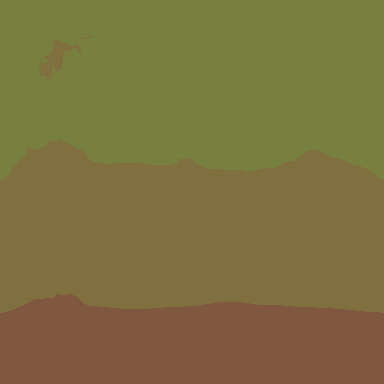
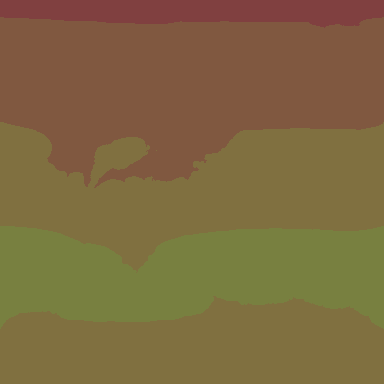
Mobile Units

diff --git a/Assets/Scripts/Map/Map.cs b/Assets/Scripts/Map/Map.cs
@@ -35,7 +35,8 @@ public class Map : IDisposable
 	public Chunk[] Chunks { get; }
 
 	public HQTile HQ;
-	private List<BuildingTile> _powerTransferTiles;
+	public Dictionary<int, MobileUnit> units;
+	private int _nextId = 0;
 
 	public Map(int height, int width, int seed, float edgeLength = 1)
 	{
@@ -51,7 +52,7 @@ public class Map : IDisposable
 		innerRadius = Mathf.Sqrt(3f) / 2f * tileEdgeLength;
 		shortDiagonal = Mathf.Sqrt(3f) * tileEdgeLength;
 		tongDiagonal = 2 * tileEdgeLength;
-		_powerTransferTiles = new List<BuildingTile>();
+		units = new Dictionary<int, MobileUnit>(500);
 		ActiveMap = this;
 	}
 
@@ -215,6 +216,16 @@ public class Map : IDisposable
 
 	}
 
+	public MobileUnit AddUnit(MobileUnitInfo unitInfo, Tile tile)
+	{
+		var id = _nextId++;
+		var unit = new MobileUnit(id, unitInfo, tile);
+		units.Add(id, unit);
+		if (IsRendered)
+			unit.Render();
+		return unit;
+	}
+
 	public TileInfo[] GetTileTyes()
 	{
 		return Chunks.SelectMany(c => c.Tiles.Select(t => t.info)).Distinct().ToArray();
@@ -238,6 +249,11 @@ public class Map : IDisposable
 		IsRendered = true;
 		if (EM == null)
 			EM = entityManager;
+		foreach (var unit in units)
+		{
+			if (!unit.Value.IsRendered)
+				unit.Value.Render();
+		}
 		var start = DateTime.Now;
 		for (int i = 0; i < Chunks.Length; i++)
 			Chunks[i].Render();
@@ -406,11 +422,6 @@ public class Map : IDisposable
 		}
 	}
 
-	public List<Tile> GetPoweredTiles()
-	{
-		return _powerTransferTiles.SelectMany(t => HexSelect(t.Coords, t.buildingInfo.powerTransferRadius)).Distinct().ToList();
-	}
-
 	public Tile ReplaceTile(Tile tile, TileInfo newTile)
 	{
 		if (!IsRendered)
@@ -420,24 +431,9 @@ public class Map : IDisposable
 		var index = chunkX + chunkZ * width;
 		var localCoord = coord.ToChunkLocalCoord(chunkX, chunkZ);
 		var nT = Chunks[index].ReplaceTile(localCoord, newTile);
-		switch (nT)
-		{
-			case HQTile t:
-				_powerTransferTiles.Add(HQ = t);
-				break;
-			case PoweredBuildingTile t:
-				_powerTransferTiles.Add(t);
-				break;
-		}
-		switch (tile)
-		{
-			case HQTile t:
-				_powerTransferTiles.Remove(t);
-				break;
-			case PoweredBuildingTile t:
-				_powerTransferTiles.Remove(t);
-				break;
-		}
+		if (nT is HQTile t)
+			HQ = t;
+	
 		tile.OnRemoved();
 		tile.Destroy();
 		nT.OnPlaced();

diff --git a/Assets/Scripts/Map/Generators/BiomePainter.cs b/Assets/Scripts/Map/Generators/BiomePainter.cs
@@ -15,16 +15,30 @@ public class BiomePainter : ScriptableObject
 		return null;
 	}
 
-	public float[] GetMoistureMap(int width, int height, float[] heightMap, float min, float max, float seaLevel)
+	public float[] GetMoistureMap(int width, int height, INoiseFilter filter, float scale)
 	{
+		var noiseMap = new float[width * height];
+		float min = float.MaxValue, max = float.MinValue;
+		//scale /= 2;
+		for (int z = 0; z < height; z++)
+		{
+			for (int x = 0; x < width; x++)
+			{
+				var sample = filter.Evaluate(new Vector3(x/scale, z/scale, 100));
+				if (sample > max)
+					max = sample;
+				if (sample < min)
+					min = sample;
+				noiseMap[x + z * width] = sample;
+			}
+		}
+
+
 		var moistureMap = new float[width * height];
 		for (int i = 0; i < moistureMap.Length; i++)
 		{
-			var h = heightMap[i];
-			var m = h <= seaLevel ? MathUtils.Map(seaLevel - h, min, seaLevel, 2, 3) : (Mathf.Pow(MathUtils.Map(h - seaLevel, 0, max, 0, 1), 2) * 3);
-			moistureMap[i] = Mathf.Clamp(m, 0, 3);
+			moistureMap[i] = (1-Mathf.Pow(MathUtils.Map(noiseMap[i], min, max, 0, 1), 2))* 3;
 		}
-
 		return moistureMap;
 	}
 
@@ -38,11 +52,11 @@ public class BiomePainter : ScriptableObject
 			for (int x = 0; x < width; x++)
 			{
 				var d = Mathf.Abs(z - equator);
-				var tE = 3-(Mathf.Pow(MathUtils.Map(d, 0, maxD, 0, 1), 2) * 3);
+				var tE = 3-MathUtils.Map(d, 0, maxD, 0, 4);
 				var h = heightMap[x + z * width];
 				var tH = Mathf.Clamp(MathUtils.Map(h, 0, max, 0, 3), 0, 3);
 				tH = 3 - tH;
-				var t = Mathf.Clamp(value: (tH + (tE* 3)) / 4f, min: 0, max: 3);
+				var t = Mathf.Clamp(value: (tH + tE + tE) / 3f, min: 0, max: 3);
 				tempMap[x + z * width] = t;
 			}
 		}

diff --git a/Assets/Scripts/Map/Units/MobileUnit.cs b/Assets/Scripts/Map/Units/MobileUnit.cs
@@ -1,0 +1,73 @@
+using System.Collections;
+using System.Collections.Generic;
+using Unity.Entities;
+using Unity.Transforms;
+using UnityEngine;
+
+public class MobileUnit
+{
+	public int id;
+	private HexCoords _occupiedTile;
+	public MobileUnitInfo info;
+	public bool IsRendered { get; private set; }
+
+	private Entity _unitEntity;
+	private bool _isShown;
+
+
+	public MobileUnit(int id, MobileUnitInfo info, Tile t)
+	{
+		this.id = id;
+		this.info = info;
+		OccupyTile(t);
+	}
+
+	public Entity Render()
+	{
+		if (IsRendered)
+			return _unitEntity;
+		IsRendered = true;
+		return _unitEntity =  info.Instantiate(_occupiedTile.worldXZ, Quaternion.identity);
+	}
+
+	public void Shown(bool isShown)
+	{
+		if (isShown == _isShown)
+			return;
+		if(_isShown = isShown)
+			Map.EM.RemoveComponent(_unitEntity, typeof(Frozen));
+		else
+			Map.EM.AddComponent(_unitEntity, typeof(Frozen));
+	}
+
+	public void MoveTo(Vector3 pos)
+	{
+		if(!Map.EM.HasComponent<Destination>(_unitEntity))
+			Map.EM.AddComponent(_unitEntity, typeof(Destination));
+		Map.EM.SetComponentData(_unitEntity, new Destination { Value = pos });
+	}
+
+	public virtual void Die()
+	{
+		//TODO: Death Effect
+		Destroy();
+	}
+
+	public void Destroy()
+	{
+		Map.EM.DestroyEntity(_unitEntity);
+	}
+
+	public void OccupyTile(Tile tile)
+	{
+		if (_occupiedTile.isCreated)
+			Map.ActiveMap[_occupiedTile].DeOccupyTile();
+		if (tile.OccupyTile(this))
+			_occupiedTile = tile.Coords;
+	}
+
+	public override int GetHashCode()
+	{
+		return id;
+	}
+}

diff --git a/Assets/Scripts/Map/Tiles/MappedTiles/Tile.cs b/Assets/Scripts/Map/Tiles/MappedTiles/Tile.cs
@@ -13,6 +13,7 @@ public class Tile
 	public HexCoords Coords { get; protected set; }
 	public Vector3 SurfacePoint { get; protected set; }
 	public float Height { get; protected set; }
+	public bool IsOccupied { get => _occupyingUnit != -1; }
 
 	public readonly TileInfo info;
 
@@ -22,6 +23,8 @@ public class Tile
 
 	protected Entity _tileEntity;
 	private NativeArray<Entity> _decor;
+
+	private int _occupyingUnit = -1;
 
 	public Tile(HexCoords coords, float height, TileInfo tInfo = null)
 	{
@@ -37,6 +40,24 @@ public class Tile
 		this.temperature = temperature;
 		biomeId = biome;
 		return this;
+	}
+
+	public bool OccupyTile(MobileUnit unit)
+	{
+		if (_occupyingUnit != -1)
+			return false;
+		_occupyingUnit = unit.id;
+		return true;
+	}
+
+	public void DeOccupyTile()
+	{
+		_occupyingUnit = -1;
+	}
+
+	public int GetUnit()
+	{
+		return _occupyingUnit;
 	}
 
 	// override object.Equals

diff --git a/Assets/Scripts/Game Logic/UI/InteractionUI.cs b/Assets/Scripts/Game Logic/UI/InteractionUI.cs
@@ -11,6 +11,7 @@ public class InteractionUI : MonoBehaviour
 
 	private Tile _selectedTile = null;
 	private bool _uiBlocked;
+	private int _id = -1;
 
 	void Start()
 	{
@@ -48,9 +49,24 @@ public class InteractionUI : MonoBehaviour
 			{
 				var ray = _cam.ScreenPointToRay(mPos);
 				var tile = Map.ActiveMap.GetTileFromRay(ray);
-				if (tile != null && tile is BuildingTile)
+				if(tile != null)
 				{
-					ShowPanel(tile);
+					if (tile.IsOccupied)
+					{
+						Debug.Log($"Unit Selected {_id = tile.GetUnit()}");
+					}else if(tile is BuildingTile)
+					{
+						ShowPanel(tile);
+					}
+				}
+			}
+			if(Input.GetKey(KeyCode.Mouse1) && _id != -1)
+			{
+				var ray = _cam.ScreenPointToRay(mPos);
+				var tile = Map.ActiveMap.GetTileFromRay(ray);
+				if(tile != null)
+				{
+					Map.ActiveMap.units[_id].MoveTo(tile.SurfacePoint);
 				}
 			}
 		}

diff --git a/Assets/Scripts/Map/Units/MobileUnitInfo.cs b/Assets/Scripts/Map/Units/MobileUnitInfo.cs
@@ -7,6 +7,8 @@ using UnityEngine;
 [CreateAssetMenu(menuName = "Map Asset/Units/Unit")]
 public class MobileUnitInfo : MeshEntityRotatable
 {
+	public float moveSpeed = 1;
+
 	public override ComponentType[] GetComponents()
 	{
 		return base.GetComponents().Concat(new ComponentType[] {
@@ -15,10 +17,12 @@ public class MobileUnitInfo : MeshEntityRotatable
 		}).ToArray();
 	}
 
+
 	public Entity Instantiate(Vector3 pos, Quaternion rotation)
 	{
+		Debug.Log($"Move speed {moveSpeed}");
 		var e = Instantiate(pos, Vector3.one, rotation);
-		Map.EM.SetComponentData(e, new MoveSpeed { Value = 2 });
+		Map.EM.SetComponentData(e, new MoveSpeed { Value = moveSpeed });
 		Map.EM.SetComponentData(e, new Heading { Value = Vector3.forward });
 		return e;
 	}

diff --git a/Assets/Scripts/Map/Generators/RandomGenerator.cs b/Assets/Scripts/Map/Generators/RandomGenerator.cs
@@ -88,7 +88,7 @@ public class RandomGenerator : MapGenerator
 		var tempMap = biomePainter.GetTempMap(map.totalWidth, map.totalHeight, heightMap, min, max, seaLevel);
 		Debug.Log($"Generate Temp map... {(DateTime.Now - startTime).TotalMilliseconds}ms");
 		startTime = DateTime.Now;
-		var moistureMap = biomePainter.GetMoistureMap(map.totalWidth, map.totalHeight, heightMap, min, max, seaLevel);
+		var moistureMap = biomePainter.GetMoistureMap(map.totalWidth, map.totalHeight, noiseFilters[0], noiseScale);
 		Debug.Log($"Generate Mouseture map... {(DateTime.Now - startTime).TotalMilliseconds}ms");
 		SaveBiomeMaps(tempMap, moistureMap, map.totalWidth, map.totalHeight);
 		startTime = DateTime.Now;

diff --git a/Assets/Scripts/Map/Tiles/MappedTiles/HQTile.cs b/Assets/Scripts/Map/Tiles/MappedTiles/HQTile.cs
@@ -15,12 +15,12 @@ public class HQTile : BuildingTile
 	public override void OnPlaced()
 	{
 		var info = this.info as HQTileInfo;
-		var tilesToReplace = Map.ActiveMap.HexSelect(Coords, info.size);
-		for (int i = 0; i < tilesToReplace.Count; i++)
+		var tilesToReplace = Map.ActiveMap.GetNeighbors(Coords);
+		for (int i = 0; i < tilesToReplace.Length; i++)
 		{
-			if(tilesToReplace[i] != this)
-				Map.ActiveMap.ReplaceTile(tilesToReplace[i], info.foundationTile);
+			Map.ActiveMap.ReplaceTile(tilesToReplace[i], info.subHQTile);
 		}
+		Map.ActiveMap.AddUnit(hqInfo.unitInfo, this);
 	}
 
 	public override void OnHeightChanged()

diff --git a/Assets/Editor/UI/MeshEntityUI.cs b/Assets/Editor/UI/MeshEntityUI.cs
@@ -31,10 +31,10 @@ public class MeshEntityUI : Editor
 		}
 		if (meshEntity is HQTileInfo hq)
 		{
-			if (hq.foundationTile != null && hq.foundationTile != hq)
+			if (hq.subHQTile != null && hq.subHQTile != hq)
 			{
-				EditorGUILayout.InspectorTitlebar(true, hq.foundationTile);
-				CreateEditor(hq.foundationTile).OnInspectorGUI();
+				EditorGUILayout.InspectorTitlebar(true, hq.subHQTile);
+				CreateEditor(hq.subHQTile).OnInspectorGUI();
 			}
 		}
 	}

diff --git a/Assets/Scripts/Game Logic/UI/BuildUI.cs b/Assets/Scripts/Game Logic/UI/BuildUI.cs
@@ -165,7 +165,6 @@ public class BuildUI : MonoBehaviour, IPointerExitHandler, IPointerEnterHandler
 									infoBanner.SetActive(false);
 									_cam.GetComponent<CameraController>().enabled = true;
 									baseNameText.text = baseNameUI.text.text;
-									//testUnit.Instantiate(selectedTile.SurfacePoint, Quaternion.identity);
 								};
 							}
 						}

diff --git a/Assets/Scripts/Map/Tiles/TileInfo/HQTileInfo.cs b/Assets/Scripts/Map/Tiles/TileInfo/HQTileInfo.cs
@@ -7,7 +7,8 @@ using UnityEngine;
 public class HQTileInfo : BuildingTileInfo
 {
 
-	public SubHQTileInfo foundationTile;
+	public SubHQTileInfo subHQTile;
+	public MobileUnitInfo unitInfo;
 
 	public override Tile CreateTile(HexCoords pos, float height)
 	{
